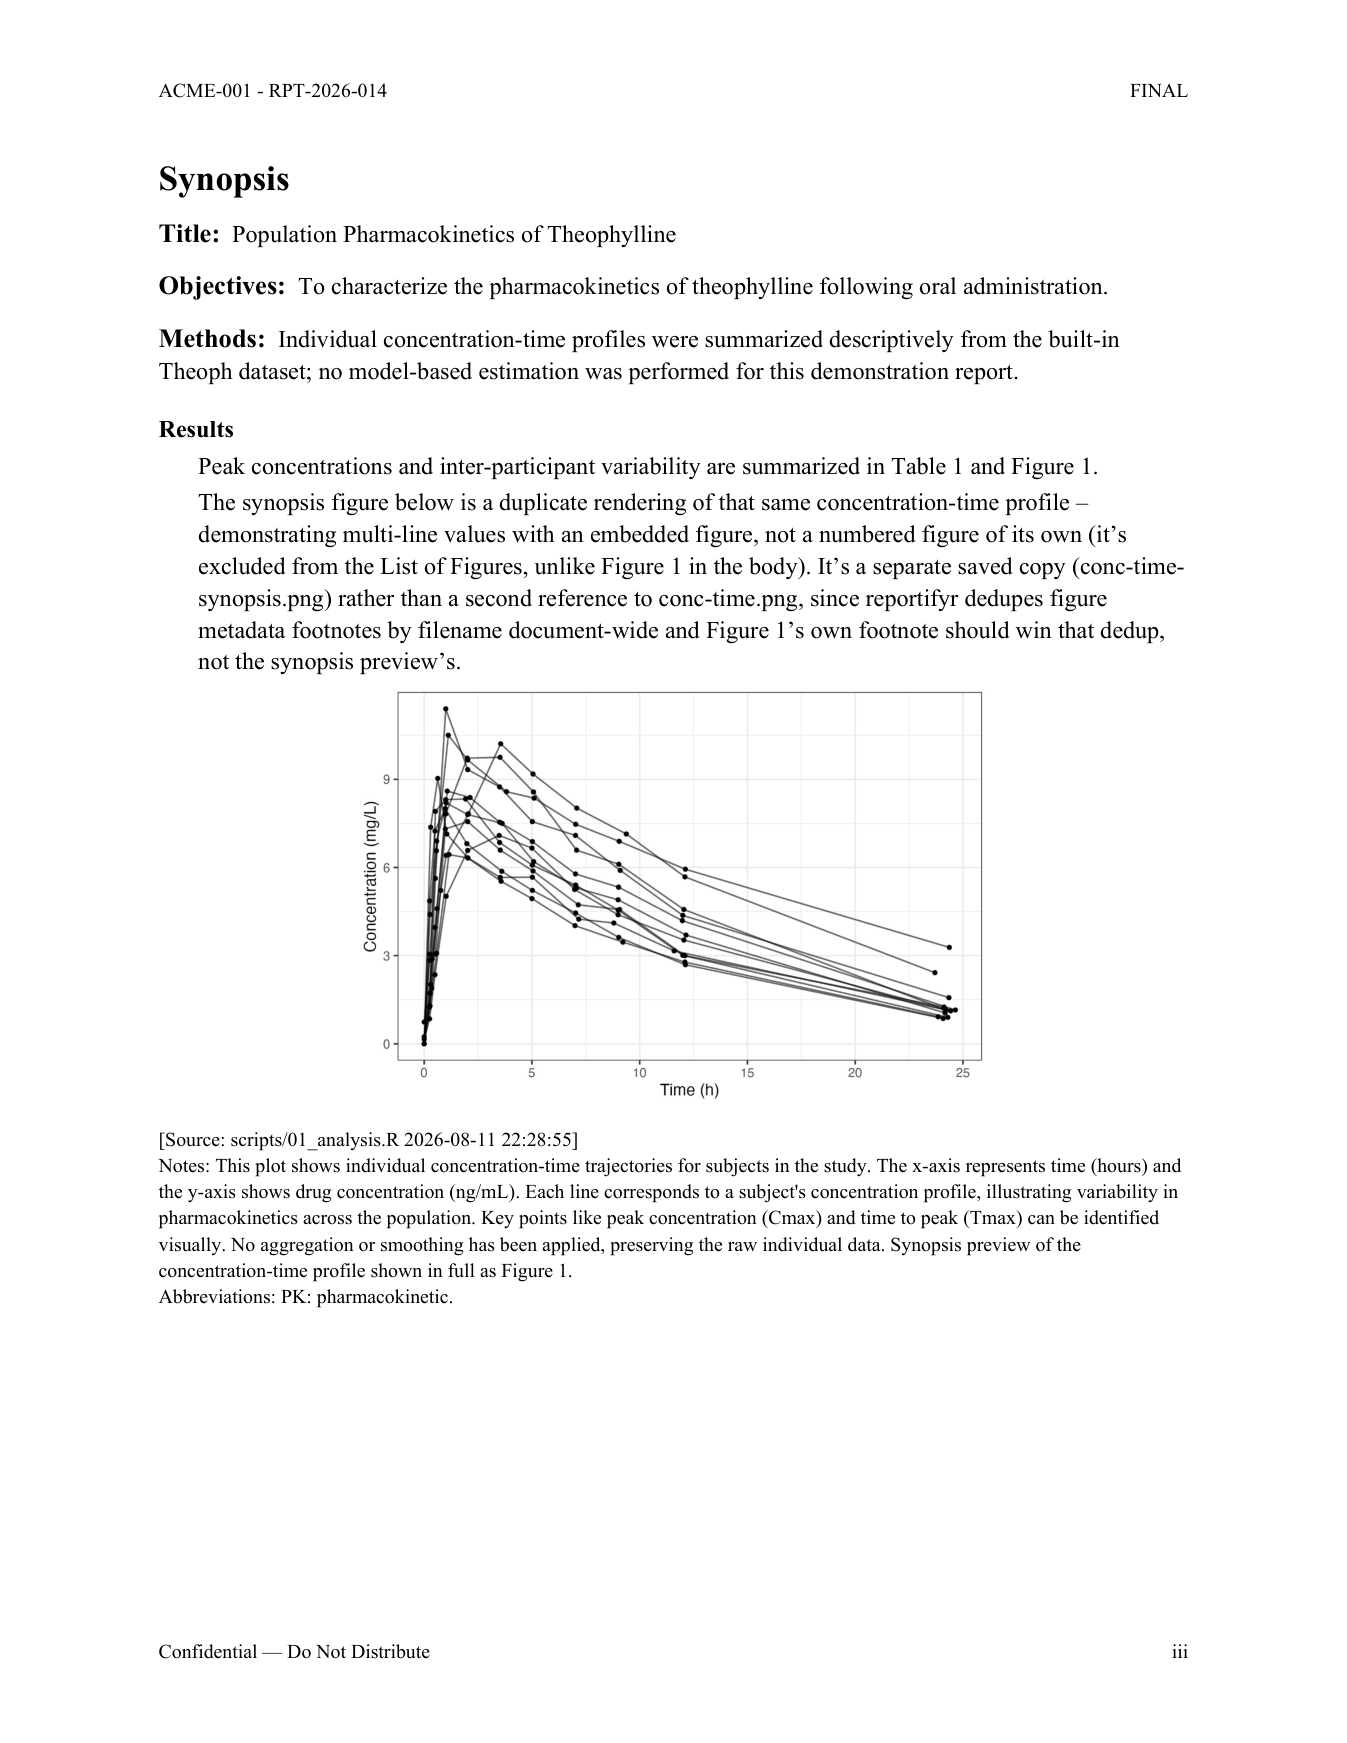
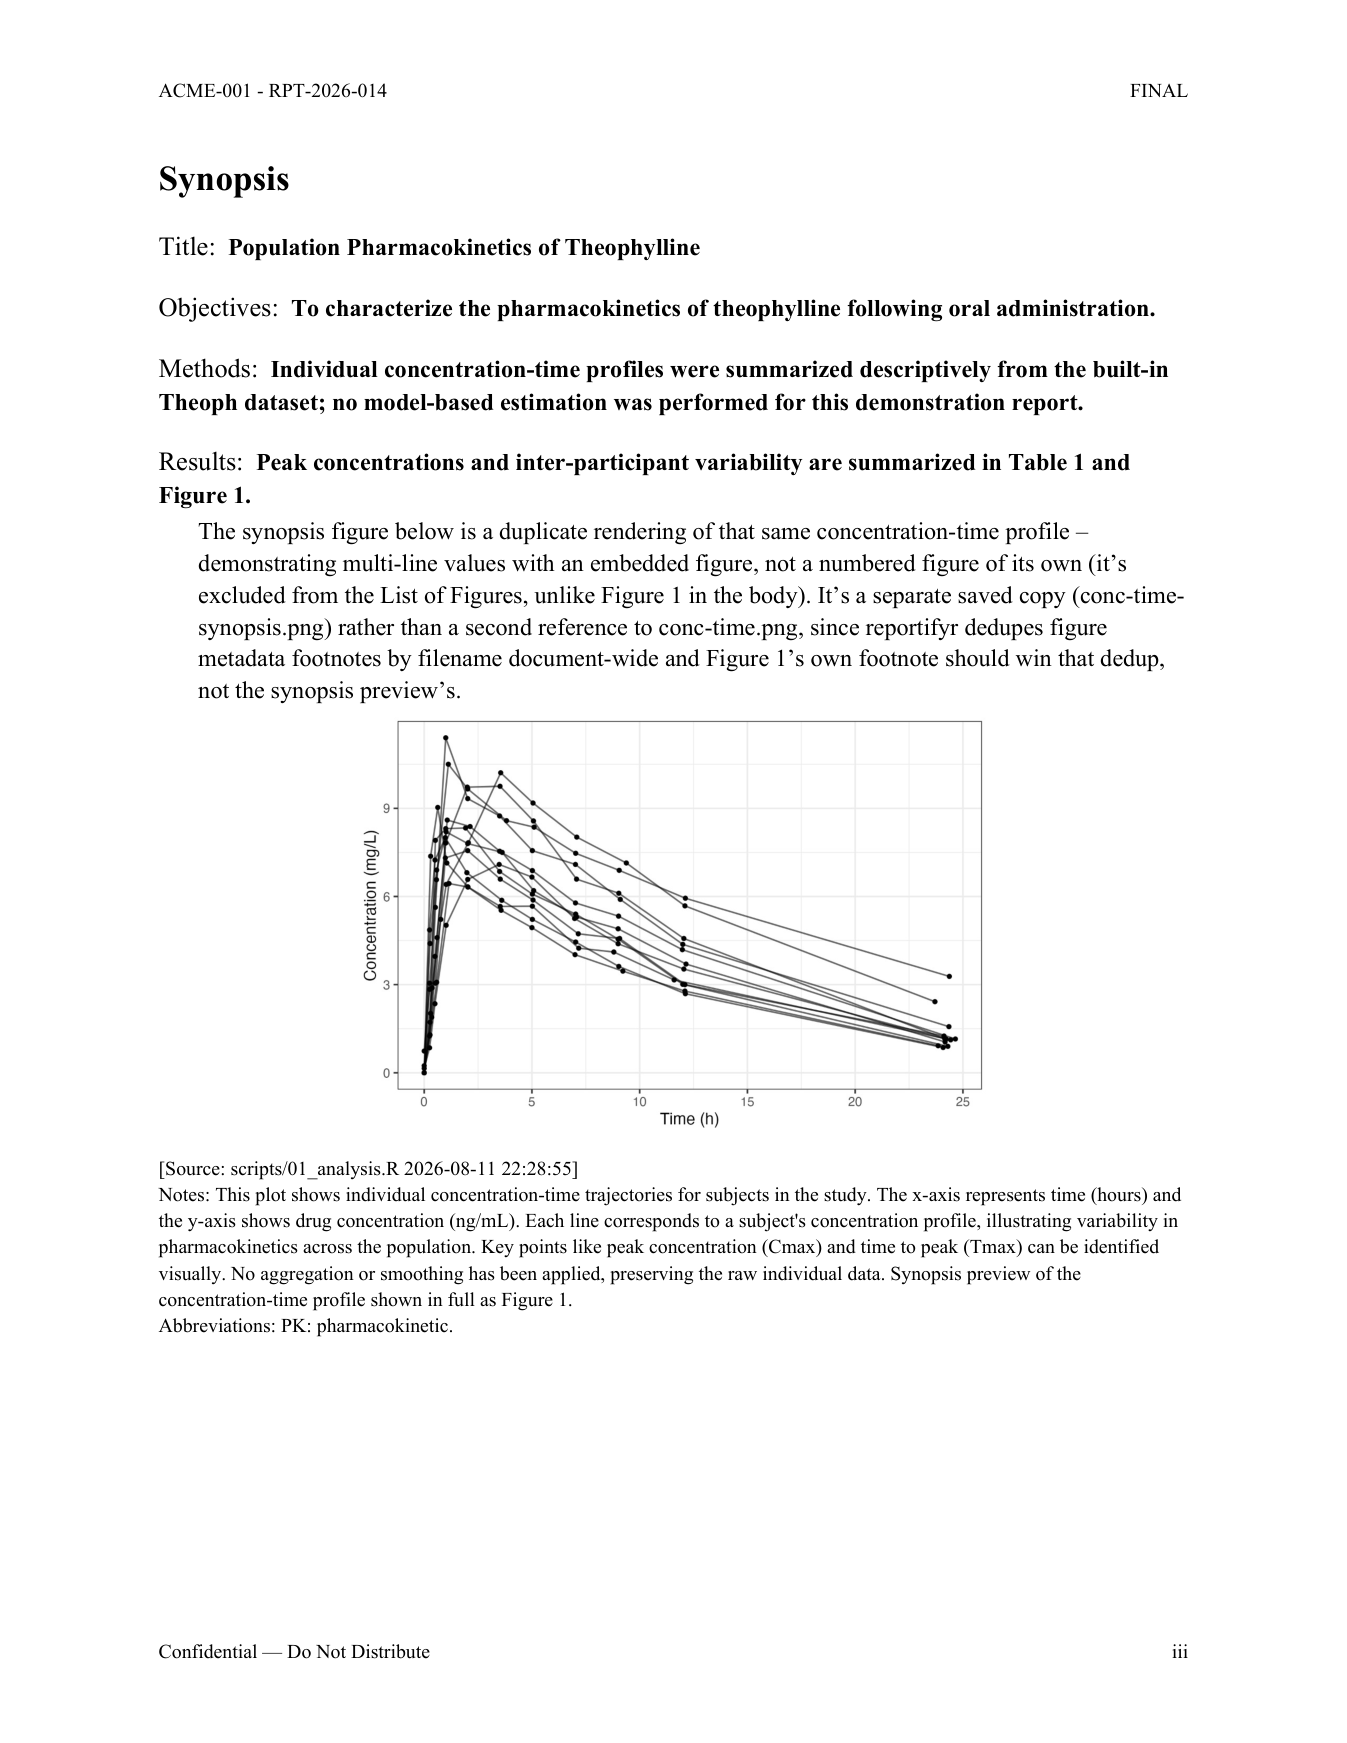
inline: merge into a row's first line even when more lines follow
Two fixes to synopsis-style: inline's fallback behavior:

1. Merging previously required the *whole* row to be a single
   non-image line -- a row with a text first line followed by more
   text or an image (Results, in the demo) fell back entirely to
   definition-list's shape. Now only the *first* line's shape decides
   mergeability: "Label:  " runs into the first line whenever it's
   plain text, and any further lines (more text, an image) still
   follow underneath, indented, exactly like definition-list's value
   -- add_row loops over lines[2..] instead of bailing out at #lines>1.

2. When the first line genuinely can't merge (it's itself an embedded
   image), the label no longer falls back to plain_label_paragraph's
   unstyled look -- inline_label_only_paragraph keeps it bold, one
   point larger, and colon-suffixed (still the "Synopsis Inline Label"
   character style), just standing alone instead of running into text.
   Previously this case was conflated with the "more than one line"
   case above and got the same undifferentiated fallback.

scripts/fixtures/synopsis_style.qmd gained a "Figure" row (image as
the *first* line) so scripts/test_synopsis_styles.py can actually
exercise case 2 -- the demo's own Results row only ever exercised case
1, since its first line is text. examples/demo-report/smoke_test.py's
checks updated to match: Results now merges instead of falling back.
Regenerated docs/assets/img/demo-report-synopsis.png.

Changed region(s): [[0.1247, 0.1239, 0.8731, 0.6196], [0.1247, 0.6196, 0.8731, 0.7745], [0.2494, 0.4647, 0.2806, 0.5577]]

diff --git a/scripts/test_synopsis_styles.py b/scripts/test_synopsis_styles.py
@@ -96,18 +96,30 @@ def _check_inline(work_dir: Path, checks: list[tuple[str, bool]]) -> None:
     rstyle = paragraphs[single_line_idx].find(".//" + qn("w:rStyle")) if single_line_idx is not None else None
     checks.append(("inline: label run uses the 'SynopsisInlineLabel' character style", rstyle is not None and rstyle.get(qn("w:val")) == "SynopsisInlineLabel"))
 
-    # Results has 2 value lines (one an embedded image) -- can't run into
-    # "Label:  ", so it falls back to definition-list's exact shape
-    # (indented value), not some third hybrid look.
-    results_label_idx = next((i for i, t in enumerate(texts) if t == "Results"), None)
-    checks.append(("inline: multi-line/image row falls back to a standalone label paragraph (Results)", results_label_idx is not None))
+    # Results' first value line is plain text ("First line of results."),
+    # so the label still merges into it even though a second (image) line
+    # follows -- only the *first* line's shape decides mergeability.
+    results_merge_idx = next((i for i, t in enumerate(texts) if t == "Results:  First line of results."), None)
+    checks.append(("inline: label merges into the first line even when more lines (an image) follow (Results)", results_merge_idx is not None))
 
-    fallback_ind = None
-    if results_label_idx is not None:
-        ppr = paragraphs[results_label_idx + 1].find(qn("w:pPr"))
+    # Figure's first value line IS an image -- can't run "Label:  " into
+    # a picture, so the label stands alone, but still bold/larger/colon
+    # via inline_label_only_paragraph, not plain_label_paragraph's
+    # unstyled look; its second line ("Caption after the image.") still
+    # follows underneath, indented, same as definition-list's value.
+    figure_label_idx = next((i for i, t in enumerate(texts) if t == "Figure:"), None)
+    checks.append(("inline: a row whose first line is an image falls back to a standalone label (Figure)", figure_label_idx is not None))
+
+    figure_rstyle = paragraphs[figure_label_idx].find(".//" + qn("w:rStyle")) if figure_label_idx is not None else None
+    checks.append(("inline: standalone fallback label still uses the bold/larger 'SynopsisInlineLabel' style", figure_rstyle is not None and figure_rstyle.get(qn("w:val")) == "SynopsisInlineLabel"))
+
+    caption_idx = next((i for i, t in enumerate(texts) if t == "Caption after the image."), None)
+    caption_ind = None
+    if caption_idx is not None:
+        ppr = paragraphs[caption_idx].find(qn("w:pPr"))
         if ppr is not None:
-            fallback_ind = ppr.find(qn("w:ind"))
-    checks.append(("inline: block-layout fallback has no w:ind override (inherits the indented style, same as definition-list)", fallback_ind is None))
+            caption_ind = ppr.find(qn("w:ind"))
+    checks.append(("inline: a line after the fallback label has no w:ind override (inherits the indented style)", caption_idx is not None and caption_ind is None))
 
 
 def _check_table(work_dir: Path, checks: list[tuple[str, bool]]) -> None:

diff --git a/examples/demo-report/smoke_test.py b/examples/demo-report/smoke_test.py
@@ -309,22 +309,42 @@ def main() -> int:
         )
     )
 
-    # Results has more than one value line (and one of them's an image),
-    # so it can't run into "Label:  " the way Title/Objectives/Methods
-    # do -- it falls back to definition-list's exact shape (indented
-    # value), not some third hybrid look (see synopsis.lua's add_row).
-    results_label_idx = next((i for i, t in enumerate(body_paragraph_texts) if t == "Results"), None)
-    checks.append(("synopsis-style: inline falls back to block layout for a multi-line/image row (Results)", results_label_idx is not None))
+    # Results' first value line is plain text, so the label still merges
+    # into it even though two more lines (more text, then an embedded
+    # image) follow -- only the *first* line's shape decides
+    # mergeability (see synopsis.lua's add_row).
+    results_merge_idx = next(
+        (
+            i
+            for i, t in enumerate(body_paragraph_texts)
+            if t == "Results:  Peak concentrations and inter-participant variability are summarized in Table 1 and Figure 1."
+        ),
+        None,
+    )
+    checks.append(("synopsis-style: inline merges the label into Results' first line even though more lines follow", results_merge_idx is not None))
 
-    results_value_ind = None
-    if results_label_idx is not None:
-        value_ppr = body_paragraphs[results_label_idx + 1].find(qn("w:pPr"))
-        if value_ppr is not None:
-            results_value_ind = value_ppr.find(qn("w:ind"))
+    results_rstyle = None
+    if results_merge_idx is not None:
+        results_rstyle = body_paragraphs[results_merge_idx].find(".//" + qn("w:rStyle"))
     checks.append(
         (
-            "inline's block-layout fallback has no w:ind override (inherits the indented 'Synopsis Value' style, same as definition-list)",
-            results_value_ind is None,
+            "Results' merged label run uses the bold/larger 'Synopsis Inline Label' character style too",
+            results_rstyle is not None and results_rstyle.get(qn("w:val")) == "SynopsisInlineLabel",
+        )
+    )
+
+    # The row's second (continuation) line still follows underneath,
+    # indented the same as definition-list's value -- no repeated label,
+    # no w:ind override.
+    continuation_ind = None
+    if results_merge_idx is not None:
+        continuation_ppr = body_paragraphs[results_merge_idx + 1].find(qn("w:pPr"))
+        if continuation_ppr is not None:
+            continuation_ind = continuation_ppr.find(qn("w:ind"))
+    checks.append(
+        (
+            "Results' second value line follows underneath with no w:ind override (inherits the indented 'Synopsis Value' style)",
+            continuation_ind is None,
         )
     )
 
